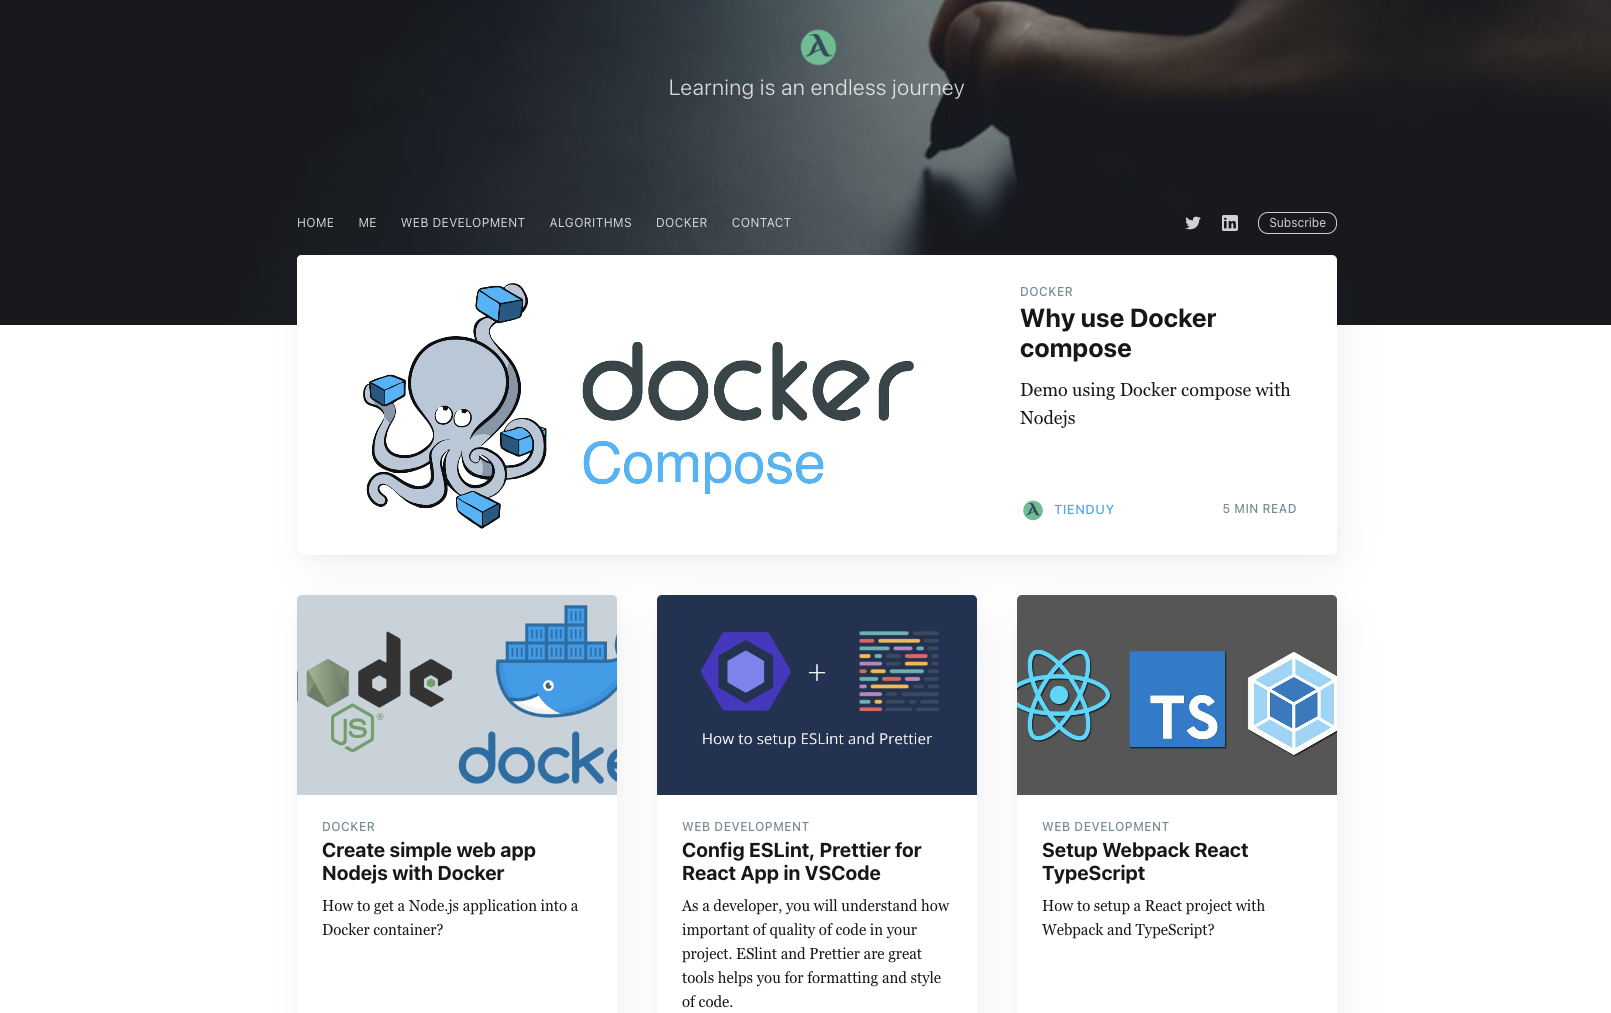
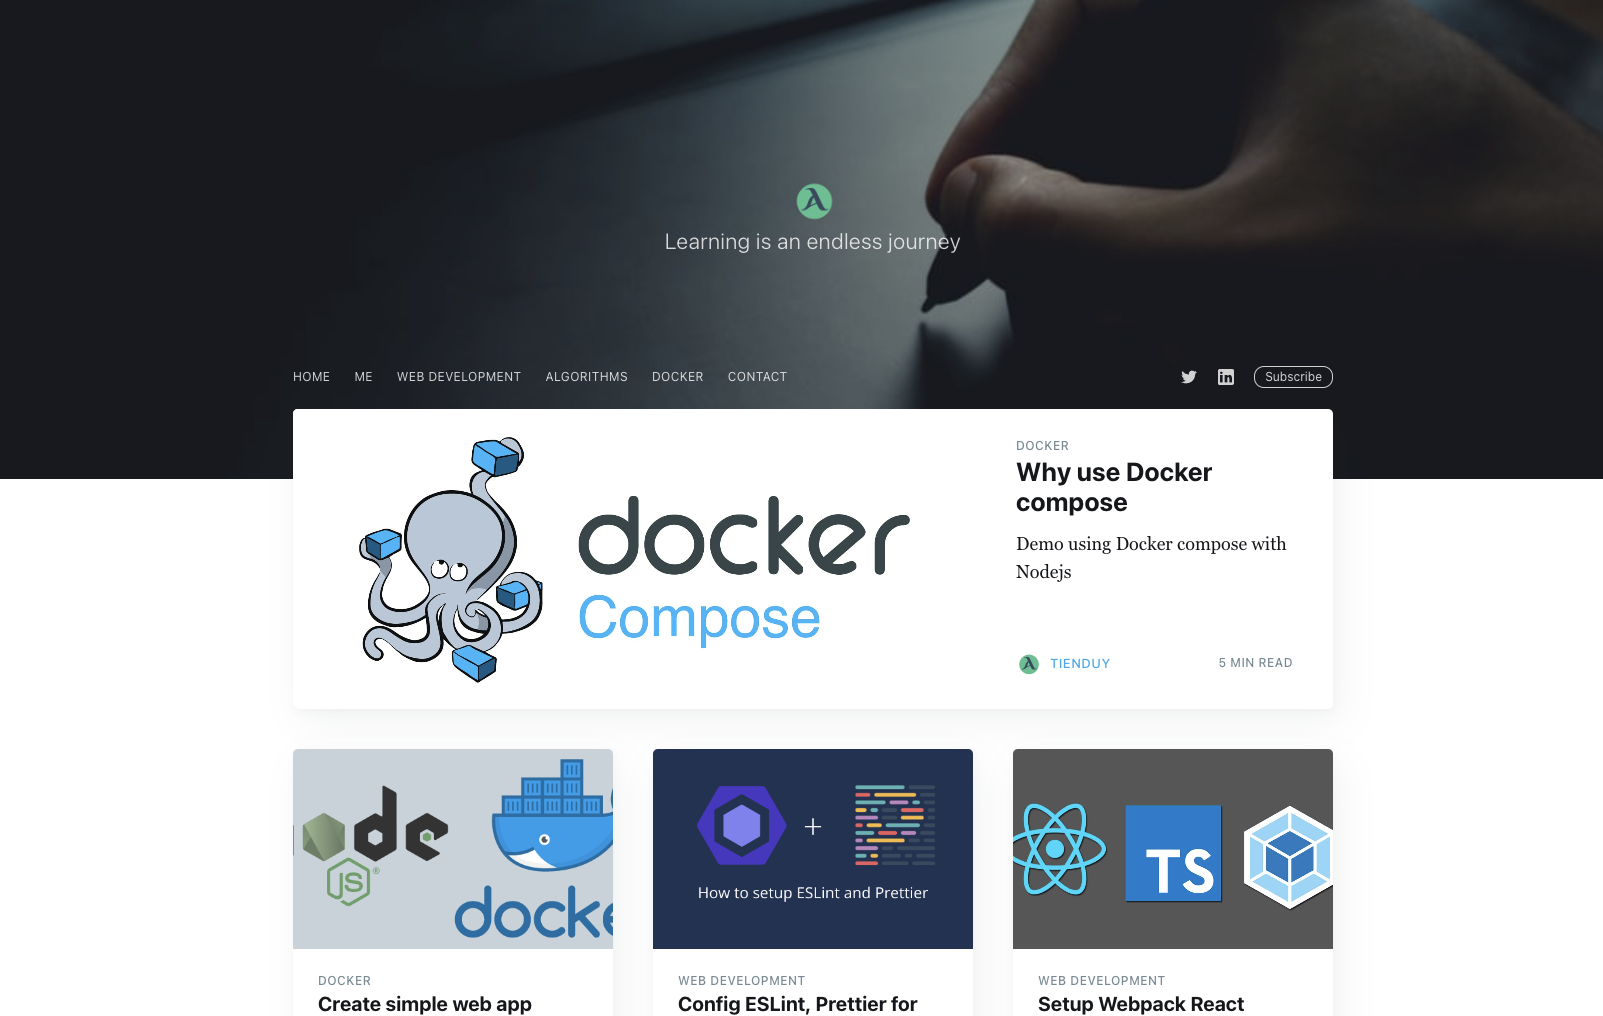
fix: fix image for old version of main site and blog

diff --git a/content/blog/2024-05-11-new-home-for-my-website/index.md b/content/blog/2024-05-11-new-home-for-my-website/index.md
@@ -26,6 +26,7 @@ Here's how my two websites looked before the migration:
 
 The main site: 
 <img src="img/old-home.png" alt="old home" loading="lazy">
+<img src="img/old-home2.png" alt="old home" loading="lazy">
 
 my blog:
 <img src="img/old-blog.png" alt="old blog" loading="lazy" width="670">
